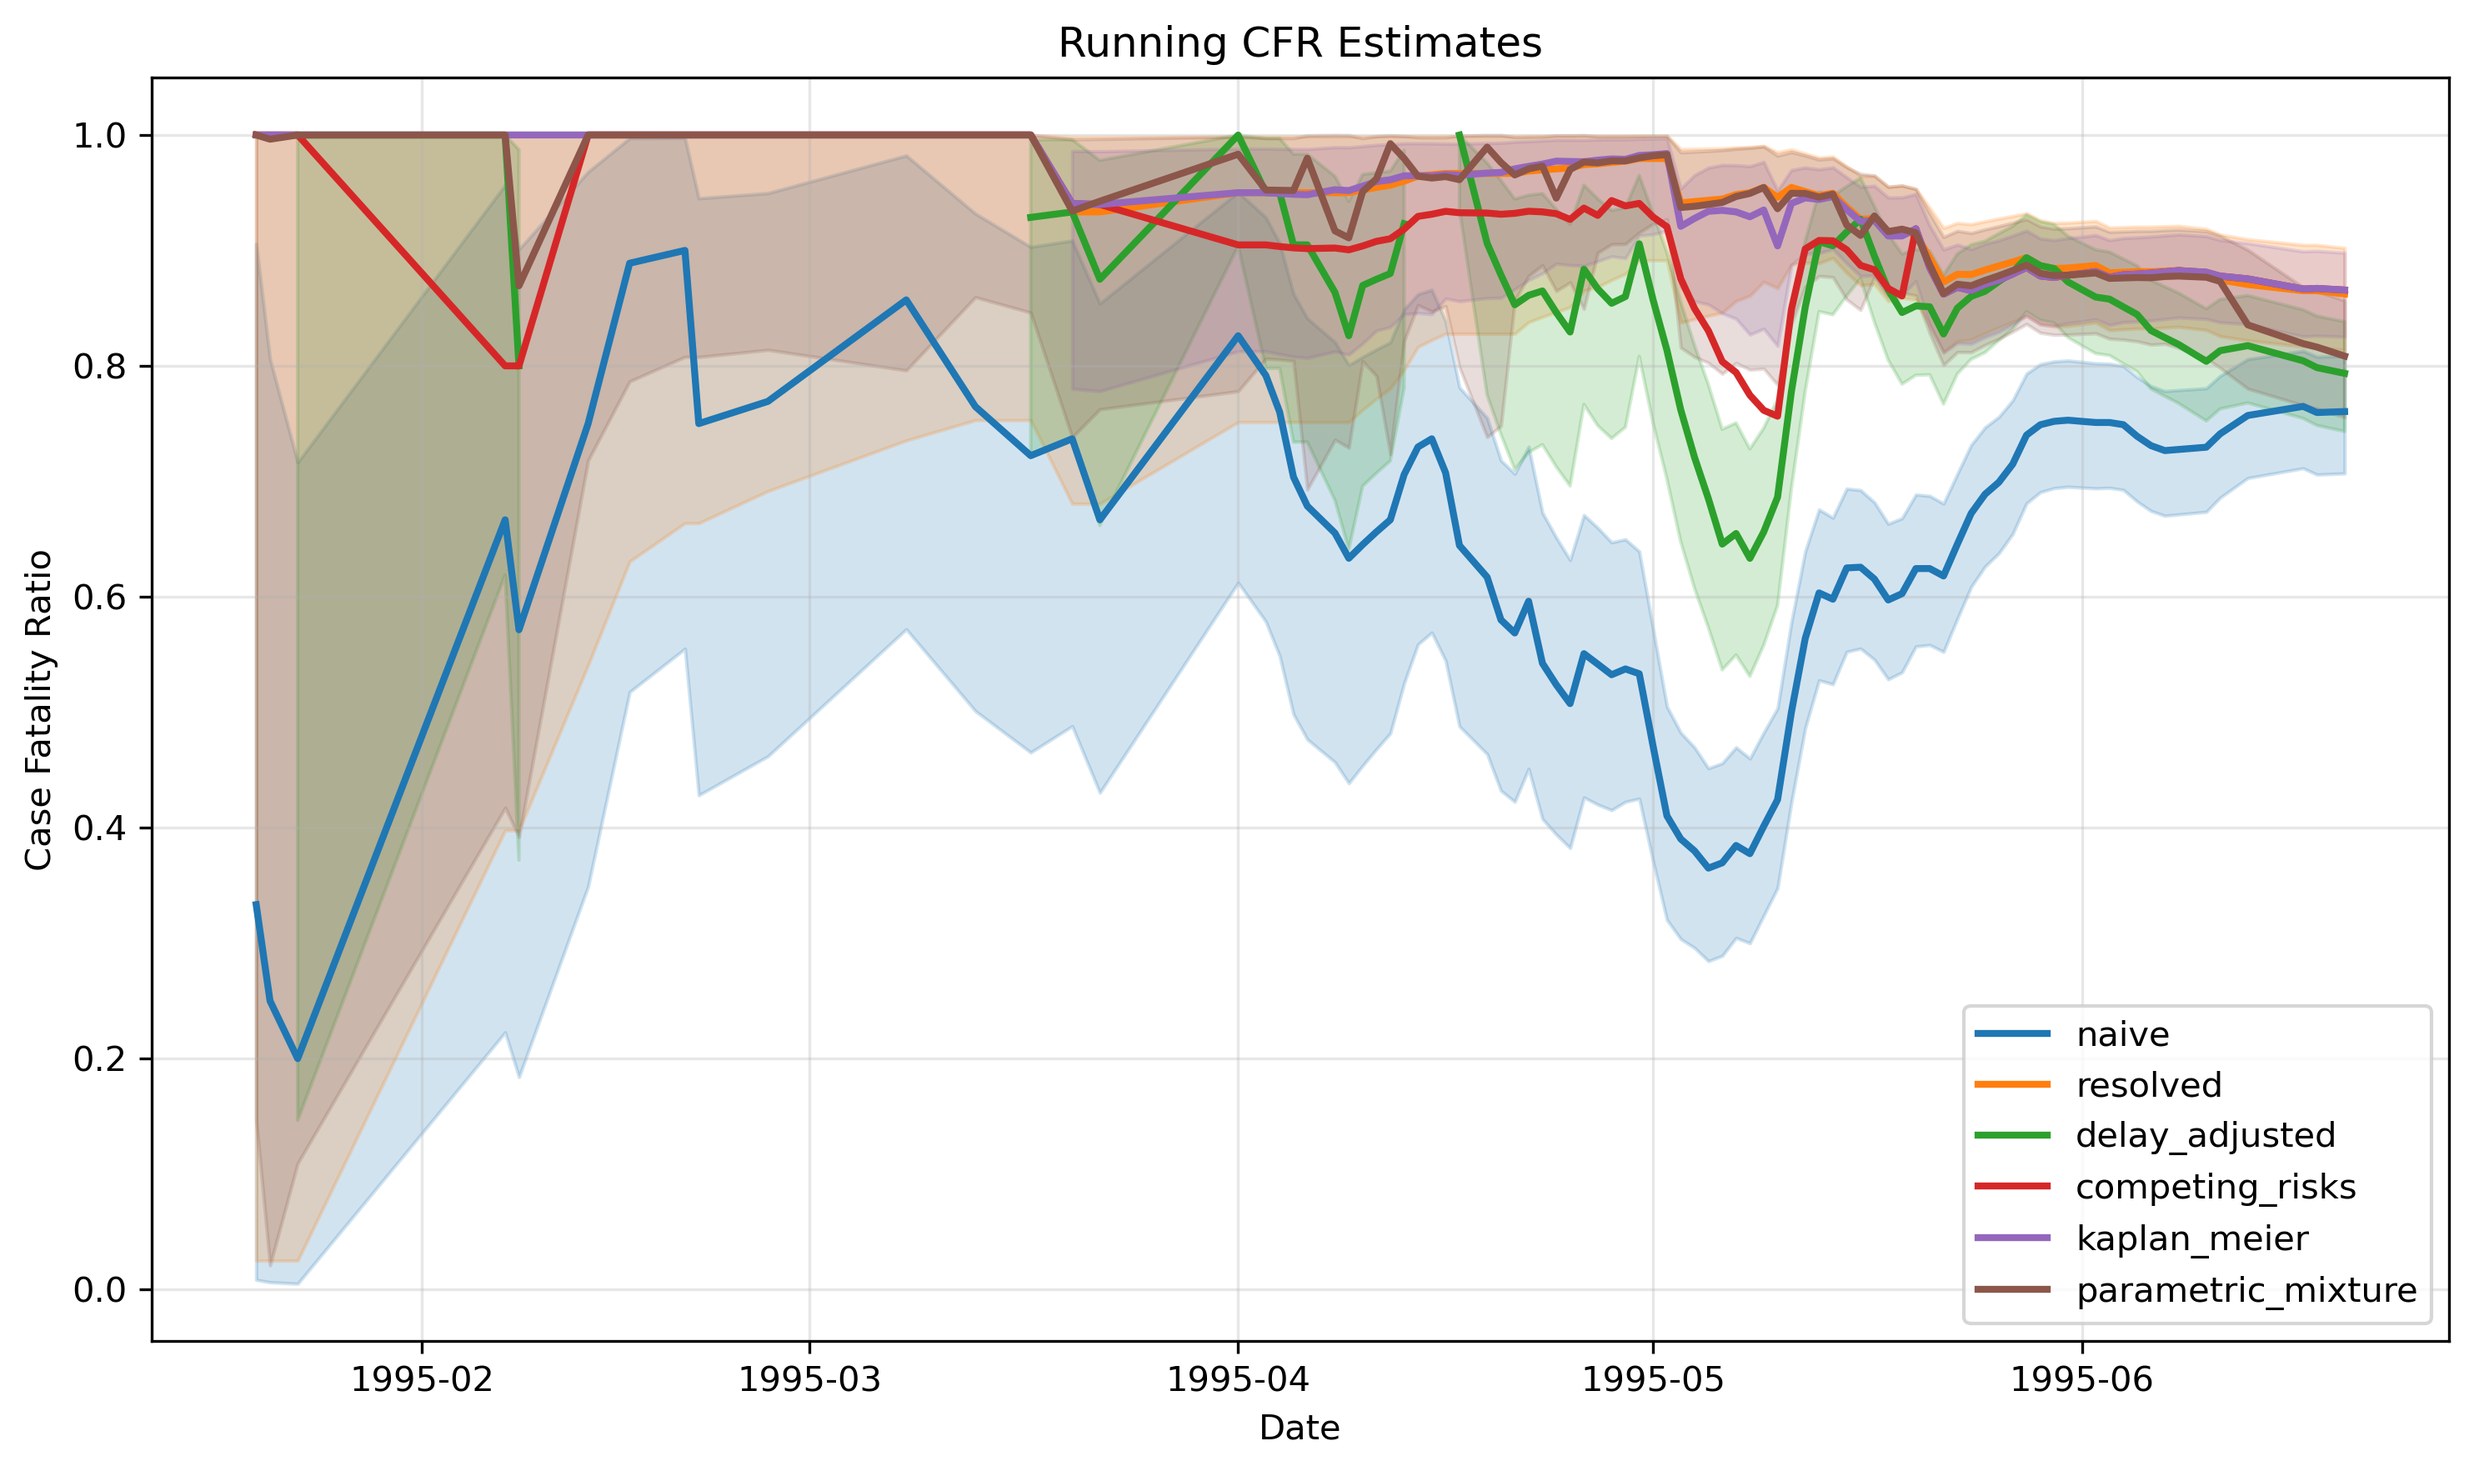
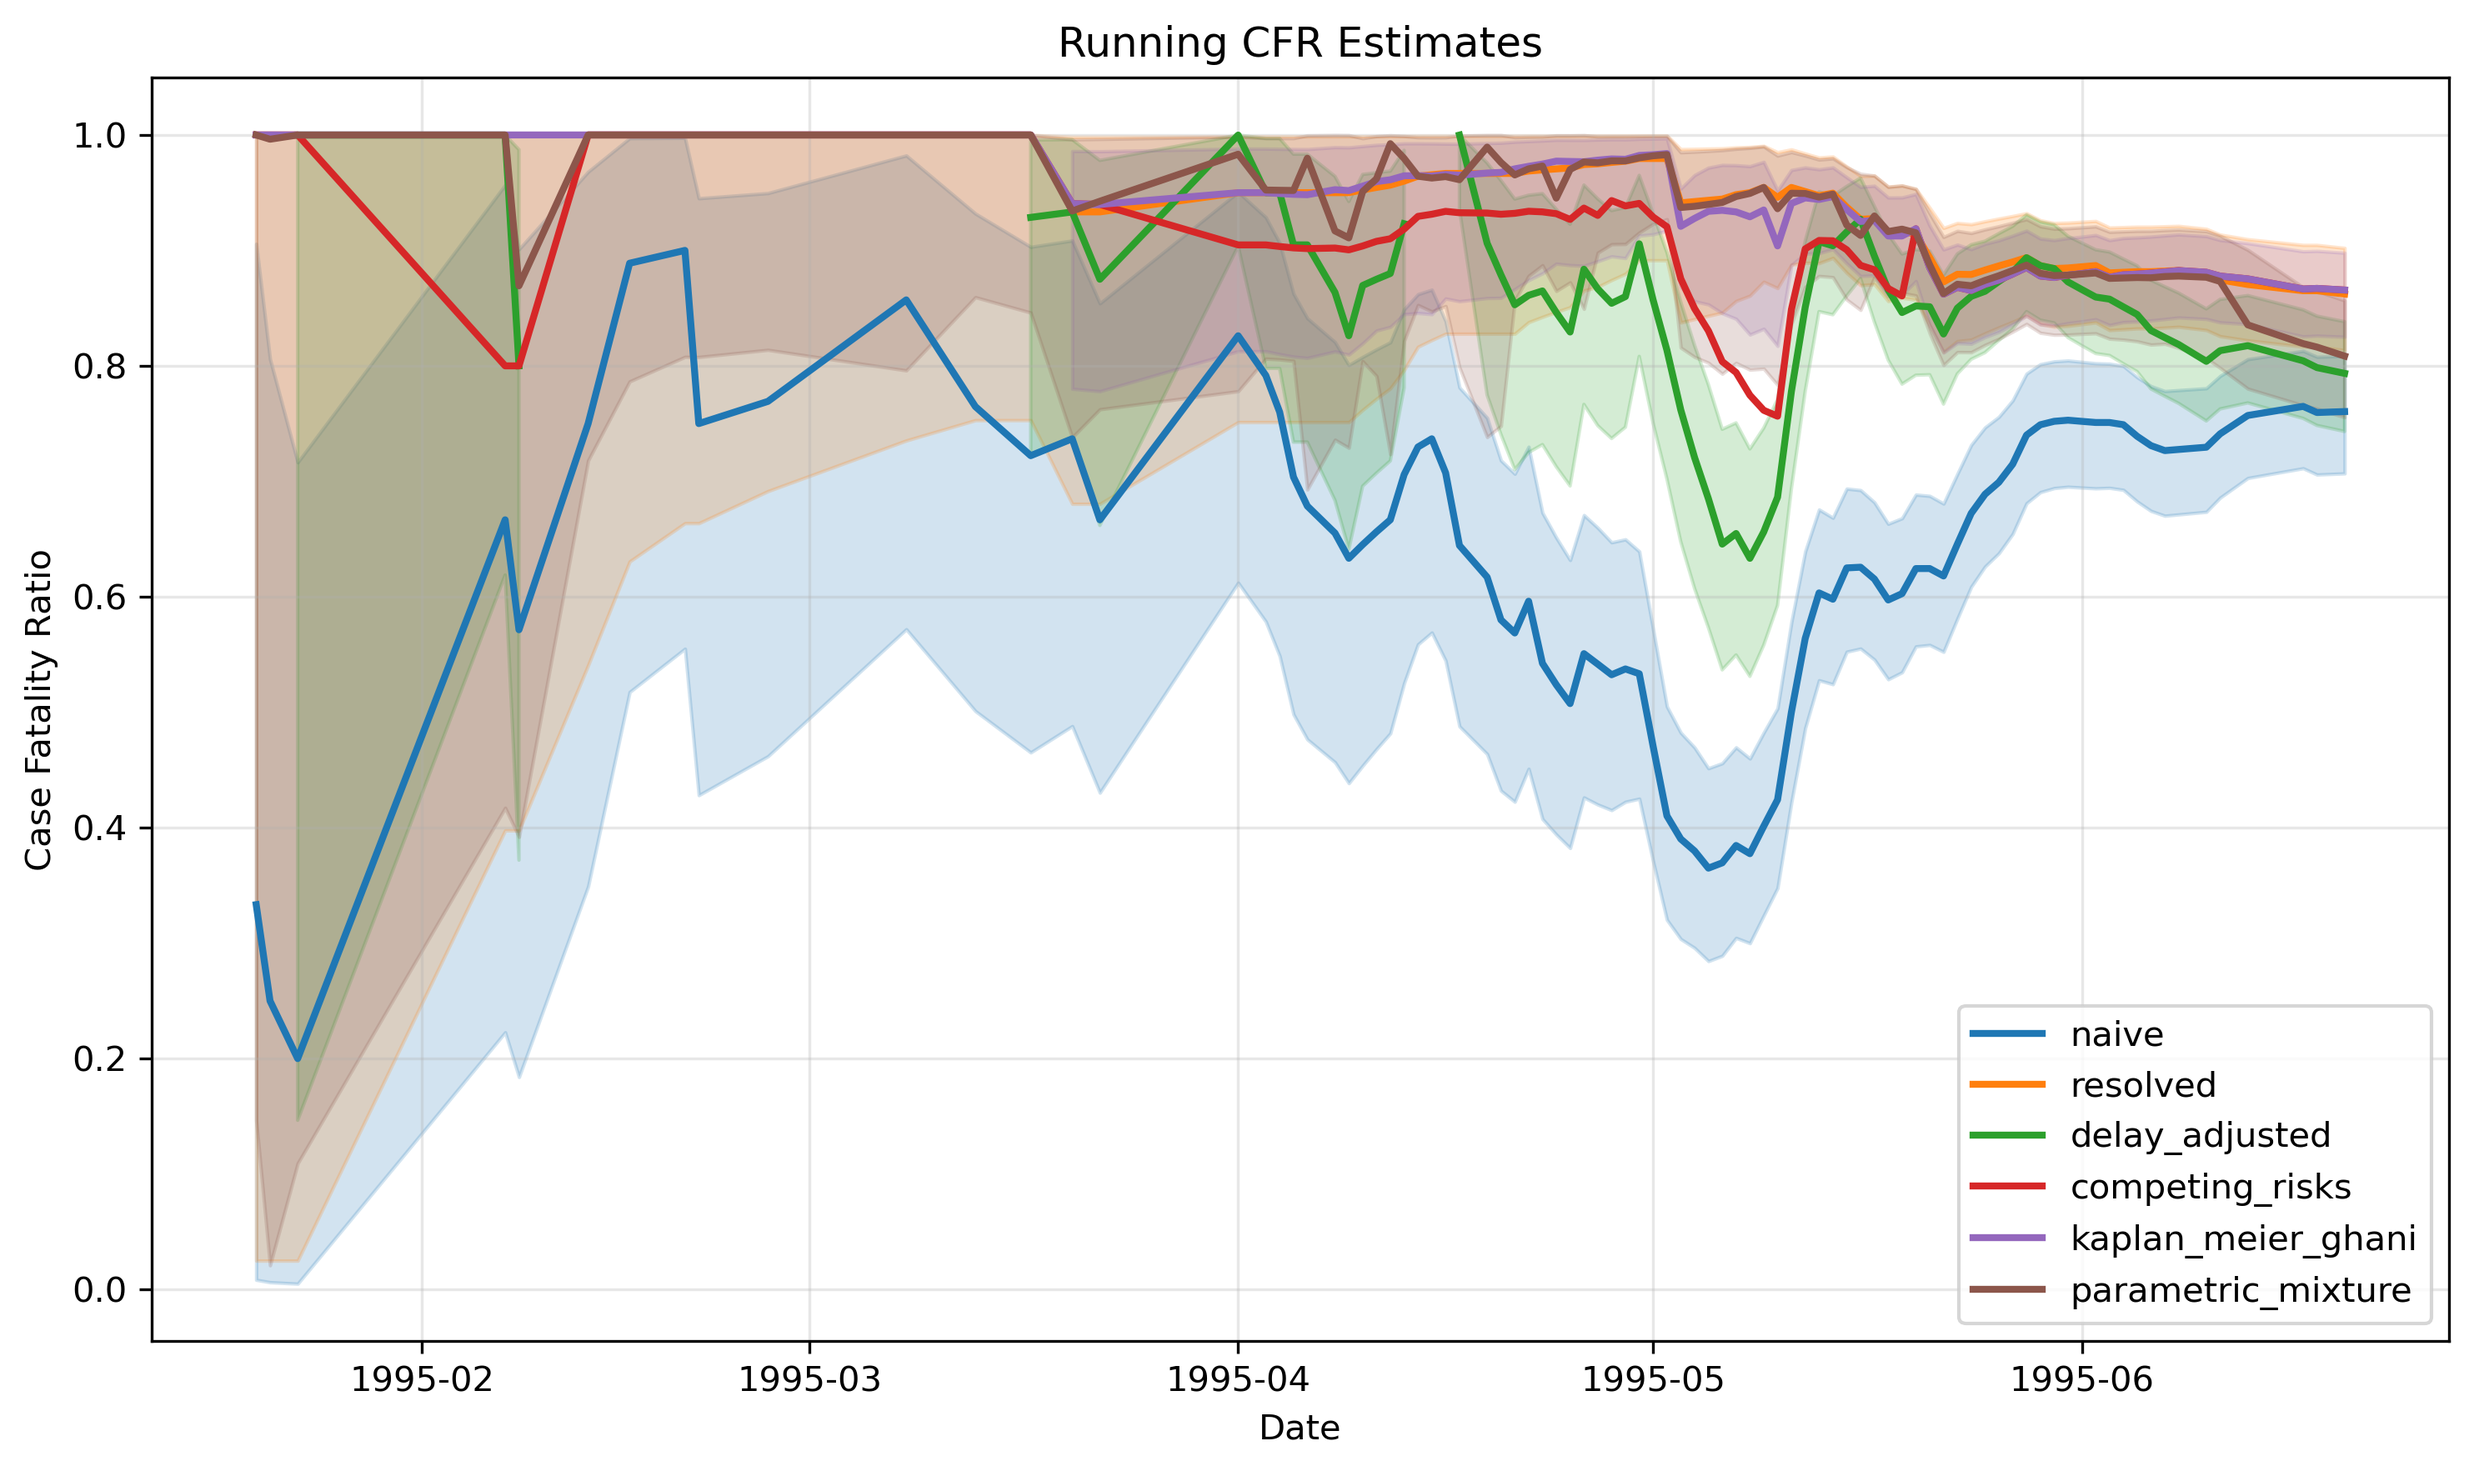
Added Mweka 2007

Changed region(s): [[0.8369, 0.6856, 0.9919, 0.9037], [0.7749, 0.7479, 0.8059, 0.8102], [0.7749, 0.6856, 0.8059, 0.7167]]

diff --git a/run_cfr.py b/run_cfr.py
@@ -1,4 +1,4 @@
-from cfr_exact import running_cfr, adapt_drc_total_to_counts
+from cfr_exact import running_cfr, adapt_drc_total_to_counts, adapt_rosello_to_linelist
 import pandas as pd
 import matplotlib.pyplot as plt
 import numpy as np
@@ -177,7 +177,7 @@ recovery_delay = delays.get("recovery",{}).get("cdf")
 results = running_cfr(
     ll,
     dataset_kind="line_list",
-    methods=["naive", "resolved", "delay_adjusted", "competing_risks", "kaplan_meier", "parametric_mixture"],
+    methods=["naive", "resolved", "delay_adjusted", "competing_risks", "kaplan_meier_ghani", "parametric_mixture"],
     delay_distribution_death=death_delay,
     delay_distribution_recovery=recovery_delay,
     dayfirst=False,
@@ -229,7 +229,7 @@ methods = [
     "resolved",
     "delay_adjusted",
     "competing_risks",
-    "kaplan_meier",
+    "kaplan_meier_ghani",
     "parametric_mixture",
 ]
 
@@ -273,7 +273,10 @@ from cfr_exact import adapt_rosello_to_linelist_by_outbreak
 df = pd.read_csv("Data/rosello2015_supplementary1.csv")
 
 linelists = adapt_rosello_to_linelist_by_outbreak(df)
-
+linelists["Mweka2007"] = adapt_rosello_to_linelist(
+    df[df["Outbreak"] == "Mweka2007"],
+    start_date_col="Date_of_notification",
+)
 print(linelists.keys())          # outbreak names
 # print(linelists["Isiro"].head())
 # print(linelists["Kikwit"].head())
@@ -283,7 +286,15 @@ print(linelists.keys())          # outbreak names
 # print(linelists["Yambuku"].head())
 
 # the below shows that there are only four cases with symptom onset dates in Mweka 2007
-print(linelists["Mweka2007"])
+print(linelists["Mweka2007"].head(20))
+print(linelists["Mweka2008"].head(20))
+ll = linelists["Mweka2008"]
+
+print(ll["event"].value_counts())
+
+print(
+    ll.groupby("event")["outcome_date"].apply(lambda x: x.notna().sum())
+)
 linelists["Mweka2007"].to_csv("Mweka2007_linelist.csv", index=False)
 linelists["Boende"].to_csv("Boende_linelist.csv", index=False)
 
@@ -292,11 +303,11 @@ methods = [
     "resolved",
     "delay_adjusted",
     "competing_risks",
-    "kaplan_meier",
+    "kaplan_meier_ghani",
     "parametric_mixture",
 ]
 
-skip = {"Mweka2007", "Tandala"}
+skip = {"Tandala"}
 
 for name, ll in linelists.items():
     if name in skip:
@@ -315,7 +326,12 @@ for name, ll in linelists.items():
 
     death_delay = delays["death"]["cdf"]
     recovery_delay = delays.get("recovery", {}).get("cdf")
-
+    shape_death = delays["death"]["shape"]
+    scale_death = delays["death"]["scale"]
+    shape_recovery = delays.get("recovery", {}).get("shape")
+    scale_recovery = delays.get("recovery", {}).get("scale")
+    print(f"delay distribution death is Gamma {shape_death}, {scale_death}")
+    print(f"delay distribution recovery is Gamma {shape_recovery}, {scale_recovery}")
     # Run CFR estimators
     results = running_cfr(
         ll,

diff --git a/cfr_exact.py b/cfr_exact.py
@@ -2029,7 +2029,7 @@ def running_cfr_from_line_list(
     )
 
     if methods is None:
-        methods = ["naive", "resolved", "delay_adjusted", "competing_risks", "kaplan_meier", "parametric_mixture"]
+        methods = ["naive", "resolved", "delay_adjusted", "competing_risks", "kaplan_meier_ghani", "parametric_mixture"]
     methods = list(methods)
 
     dates = pd.DatetimeIndex(sorted(pd.unique(linelist["start_date"].dropna())))
@@ -2100,11 +2100,11 @@ def running_cfr_from_line_list(
             row["competing_risks"] = est
             row["competing_risks_lower"] = lo
             row["competing_risks_upper"] = hi
-        if "kaplan_meier" in methods:
+        if "kaplan_meier_ghani" in methods:
             est, lo, hi = _unpack_est_ci(cfr_ghani_2005_km(current))
-            row["kaplan_meier"] = est
-            row["kaplan_meier_upper"] = hi
-            row["kaplan_meier_lower"] = lo
+            row["kaplan_meier_ghani"] = est
+            row["kaplan_meier_ghani_upper"] = hi
+            row["kaplan_meier_ghani_lower"] = lo
         if "parametric_mixture" in methods:
             mix = cfr_parametric_mixture(current, family="gamma")
             row["parametric_mixture"] = mix["estimate"]
@@ -2394,9 +2394,15 @@ def adapt_drc_consolidated_to_counts1(df: pd.DataFrame) -> pd.DataFrame:
 
 
 
-def adapt_rosello_to_linelist(df: pd.DataFrame) -> pd.DataFrame:
+def adapt_rosello_to_linelist(
+    df: pd.DataFrame,
+    start_date_col: str = "Date_of_onset_symp",
+) -> pd.DataFrame:
     work = df.copy()
-    work["analysis_origin_date"] = _to_datetime(work["Date_of_onset_symp"], dayfirst=True)
+    work["analysis_origin_date"] = _to_datetime(
+    work[start_date_col],
+    dayfirst=True,
+)
 
     outcome = work["Outcome"].map(_safe_lower)
     event = pd.Series(
